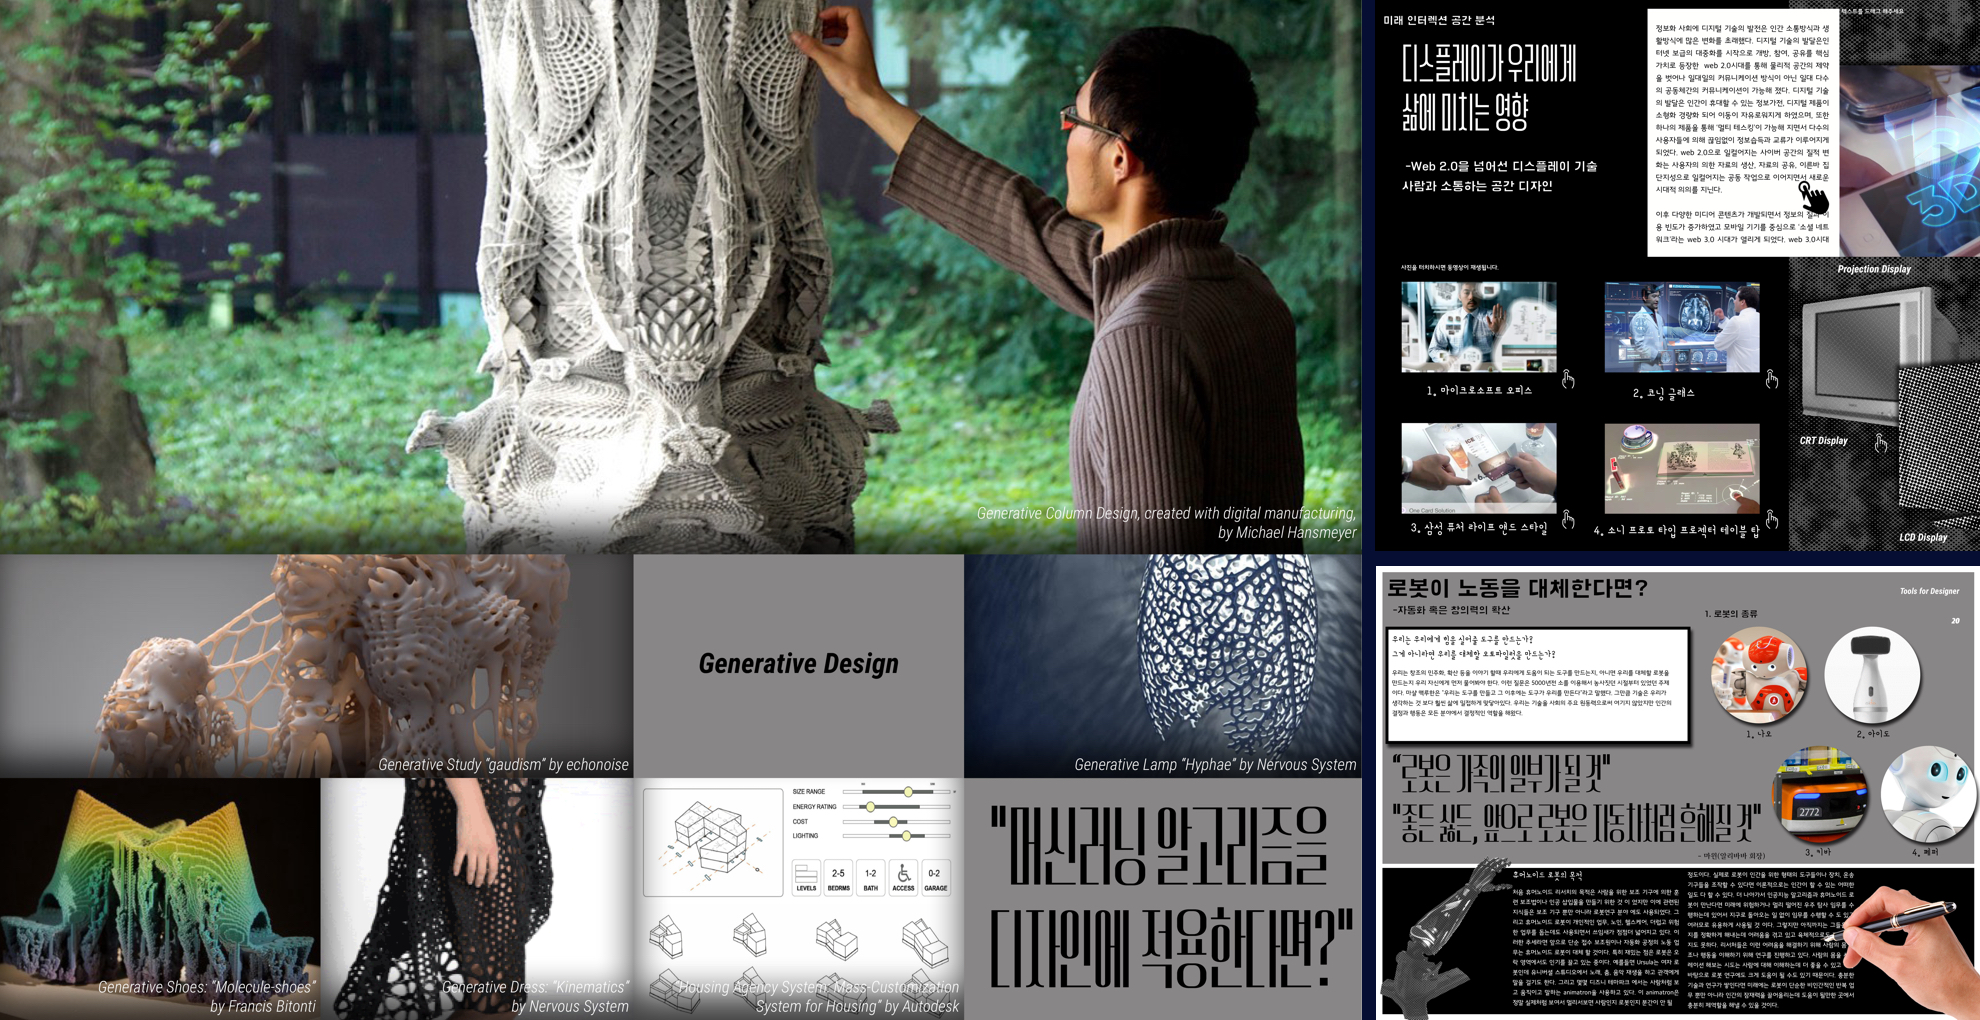
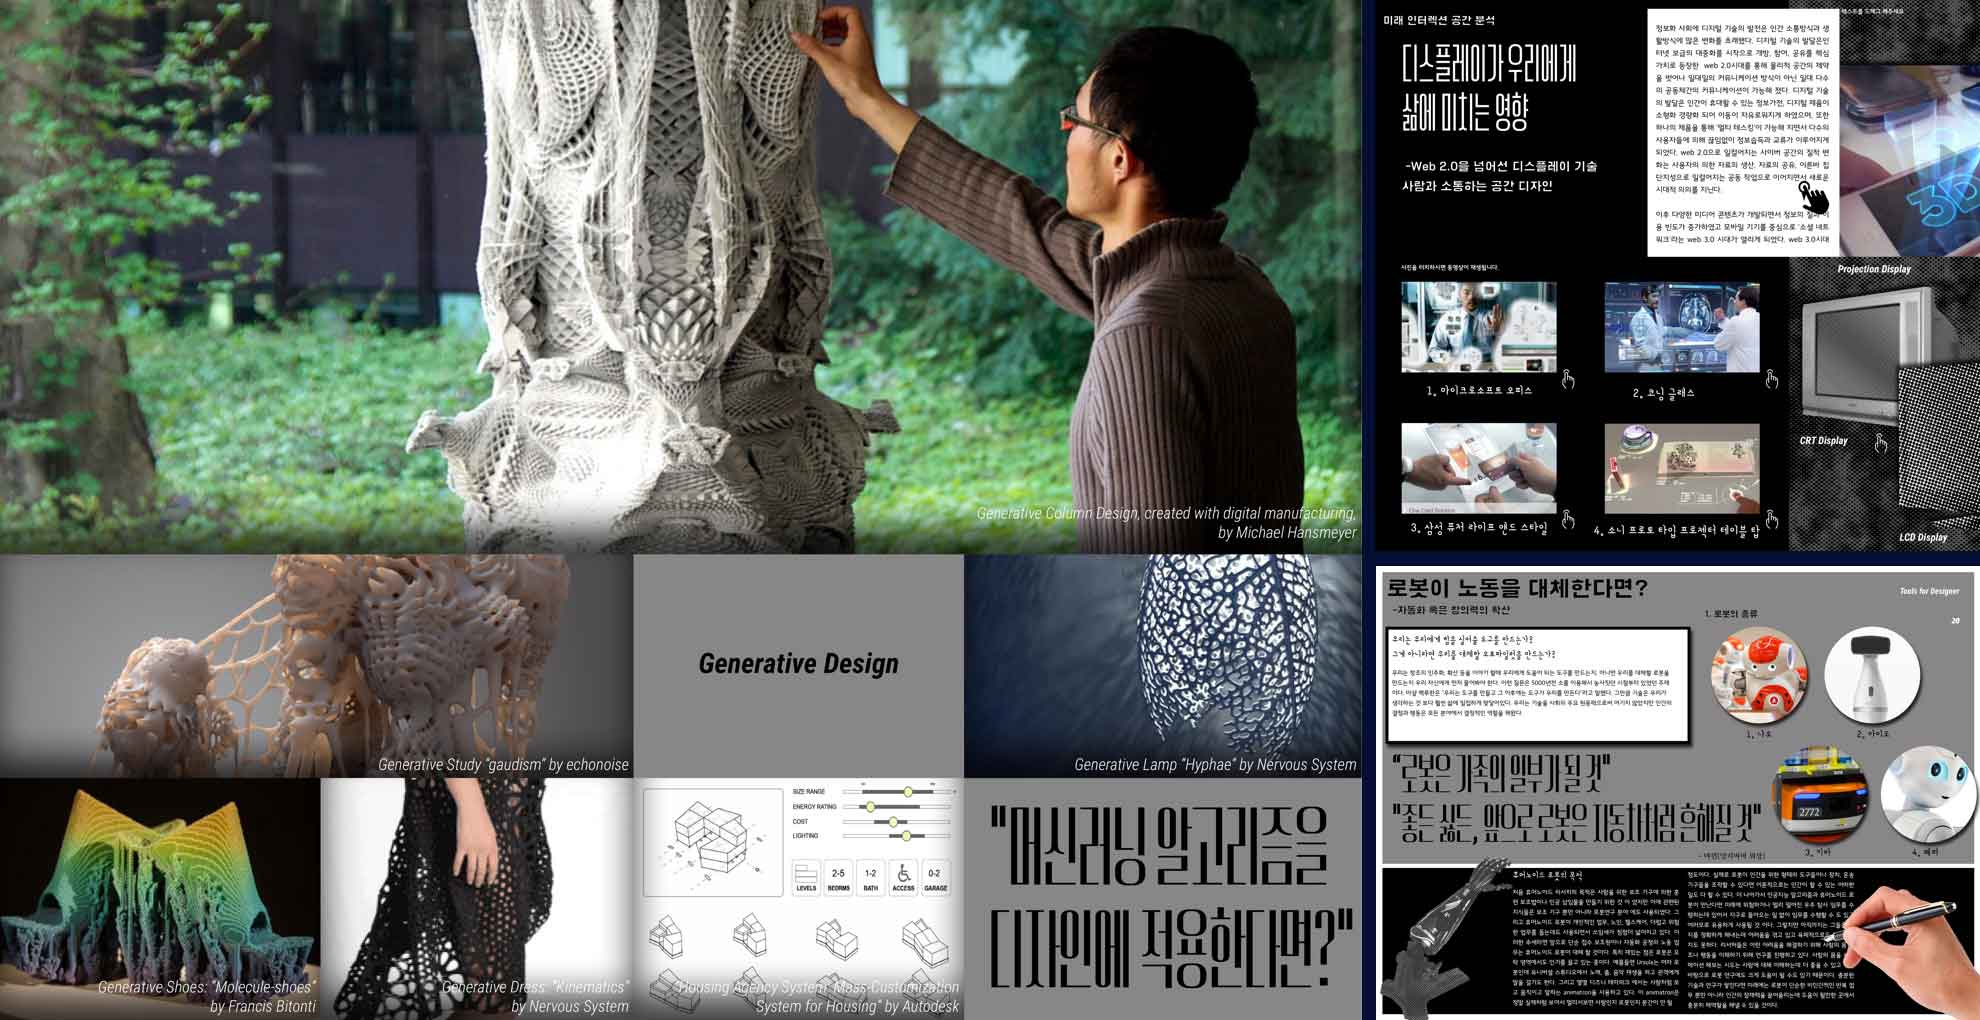
이미지 용량 최소화

diff --git a/hellofuture.html b/hellofuture.html
@@ -92,10 +92,10 @@
         
         <div class="row section-container-spacer">
           <div class="col-12 col-md-6">
-            <img src="img/works/hellofuture/research01.png" class="img-responsive" alt="">
+            <img src="img/works/hellofuture/research01.jpg" class="img-responsive" alt="">
           </div>
           <div class="col-12 col-md-6 ">
-            <img src="img/works/hellofuture/research02.png" class="img-responsive" alt="">
+            <img src="img/works/hellofuture/research02.jpg" class="img-responsive" alt="">
           </div>
         </div>
         
@@ -128,12 +128,12 @@
         </div>
         
         <div class="row section-container-spacer">
-          <div class="col-12 col-md-6">
-            <img src="img/works/hellofuture/research03.png" class="img-responsive" alt="">
+          <div class="col-md-6 col-12">
+            <img src="img/works/hellofuture/research03.jpg" class="img-responsive" alt="">
             <p>Contents Outline Table</p>
           </div>
-          <div class="col-12 col-md-6">
-            <img src="img/works/hellofuture/research04.png" class="img-responsive" alt="">
+          <div class="col-md-6 col-12">
+            <img src="img/works/hellofuture/research04.jpg" class="img-responsive" alt="">
             <p>Information Sorting</p>
           </div>
         </div>        
@@ -147,8 +147,22 @@
         <img src="img/works/hellofuture/diagram.png" alt="" class="img-responsive">
         <p>Contents Flow</p>
 
-       
-
+<!--
+        <div class="row section-container-spacer">
+          <div class="col-md-4 col-12">
+            <img src="img/works/hellofuture/research03.jpg" class="img-responsive" alt="">
+            <p>Contents Outline Table</p>
+          </div>
+          <div class="col-md-4 col-12">
+            <img src="img/works/hellofuture/research04.jpg" class="img-responsive" alt="">
+            <p>Information Sorting</p>
+          </div>
+          <div class="col-md-4 col-12">
+            <img src="img/works/hellofuture/research04.jpg" class="img-responsive" alt="">
+            <p>Information Sorting</p>
+          </div>
+        </div>  
+-->
         <img src="img/12.jpg" class="img-responsive" alt="">
         <p>Menphis skyline</p>
 
